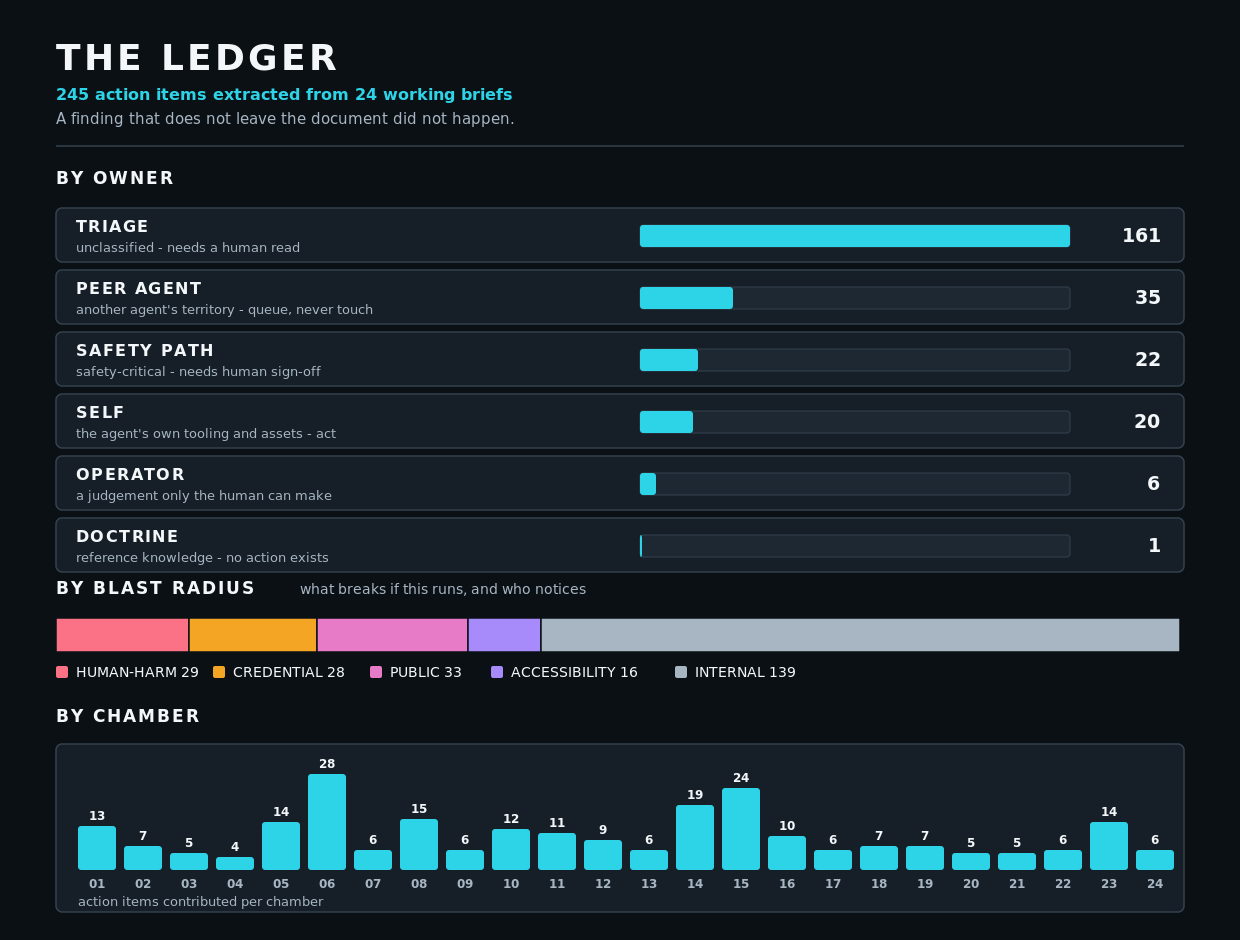
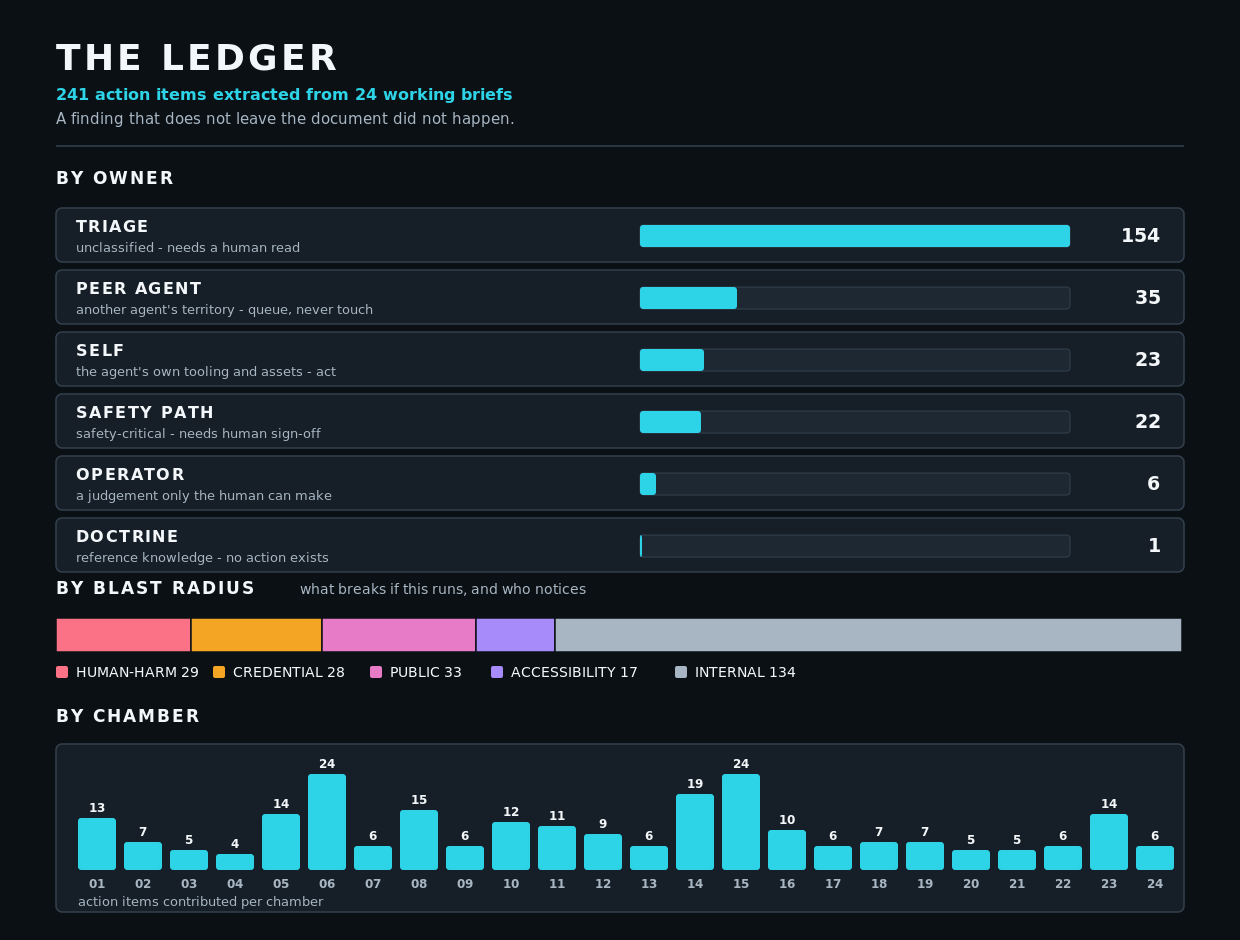
Correct the findings total: 245 -> 241 (parser defect 7)
Chamber 06's checklist header reads

  | Rank | Requirement | Mechanical Rule / Threshold | Consequence | Source |

which matched NONE of the header-detection keywords in either counter. Two
consequences, both wrong in different directions:

  - its four header rows were counted as action items (28 instead of 24)
  - the extractor fell through to 'pick the longest cell', which selected the
    CONSEQUENCE column, so 24 rationale strings were filed as actions while
    the real Requirement column was never captured at all

Fixed by adding 'requirement' and 'rank' to the header keywords in both
brief-gate.py and brief-ledger.py. Both counters now independently report 241.
_pick_action_col already preferred a Requirement column; it had simply never
been reached.

Also: the ledger diagram's screen-reader <desc> had the count HARDCODED, so it
still said 245 while the visible title said 241. Now derived from the data. A
stale accessible description is a wrong answer, not a cosmetic bug.

Owner split shifts accordingly: SELF 20 -> 23, TRIAGE 161 -> 154.

diff --git a/docs/gun-architecture.md b/docs/gun-architecture.md
@@ -127,7 +127,7 @@ journal and a directory listing.
 
 ### The gate was wrong before the briefs were
 
-Six times the checker reported a problem and the checker was the problem:
+Seven times the checker reported a problem and the checker was the problem:
 
 | Reported | Actual cause |
 | :--- | :--- |
@@ -137,6 +137,7 @@ Six times the checker reported a problem and the checker was the problem:
 | A missing mount pin | The pin line wrapped, and the pattern normalised neither wrapping nor quote markers |
 | One brief had five items | Its citation column contained the word "Step", which the header-detection pattern matched, so real rows were discarded as headers |
 | Another had twelve items | It has four. Nested sub-bullets were counted as separate items |
+| #06 had twenty-eight items | It has twenty-four. Its header read `\| Rank \| Requirement \| ...`, matching none of the header keywords, so four header rows counted as items **and** the parser filed the Consequence column as the action |
 
 All six are now permanent regression cases. The standing rule they encode:
 **when a probe reports something broad and alarming, suspect the probe first.**
@@ -164,7 +165,7 @@ known would have inherited every one of them.
 
 ![The Ledger](../assets/exports/findings-ledger.png)
 
-Twenty-four briefs produced 245 concrete action items. Left as prose inside
+Twenty-four briefs produced 241 concrete action items. Left as prose inside
 twenty-four documents, they would have quietly evaporated — the same class of
 failure as a safety switch that never reached the backup copies of the file it
 was meant to guard.

diff --git a/README.md b/README.md
@@ -61,7 +61,7 @@ Eight steps, two mandatory stops. Both stops are fail-safes rather than delays.
 
 ### The ledger
 
-The 24 briefs produced 245 concrete action items. Left as prose inside 24
+The 24 briefs produced 241 concrete action items. Left as prose inside 24
 documents, they would have evaporated. So they get extracted, assigned an owner,
 and rated by blast radius.
 

diff --git a/docs/the-24-chambers.md b/docs/the-24-chambers.md
@@ -3,7 +3,7 @@
 Every chamber is one expert skillset with its own live-researched working brief.
 A chamber with no brief is an empty chamber - the router will not fire it.
 
-**Total action items produced by the 24 briefs:** 245
+**Total action items produced by the 24 briefs:** 241
 
 ---
 

diff --git a/catalog/diagrams/findings-ledger.md b/catalog/diagrams/findings-ledger.md
@@ -9,7 +9,7 @@
 
 ## What it shows
 
-245 action items extracted from the 24 briefs, grouped by owner and by blast radius.
+241 action items extracted from the 24 briefs, grouped by owner and by blast radius.
 
 ## Design decisions
 
